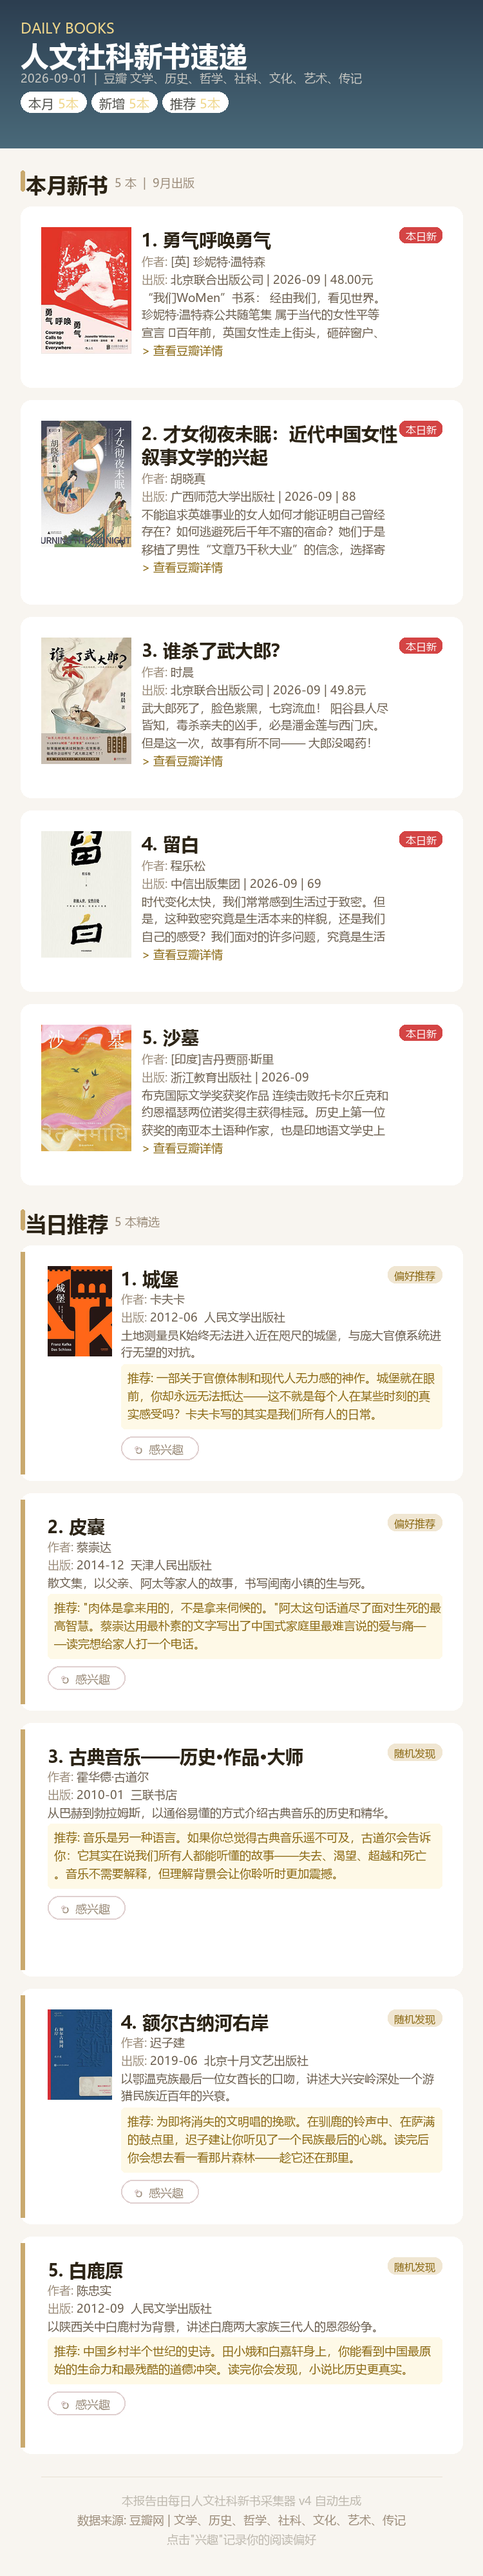
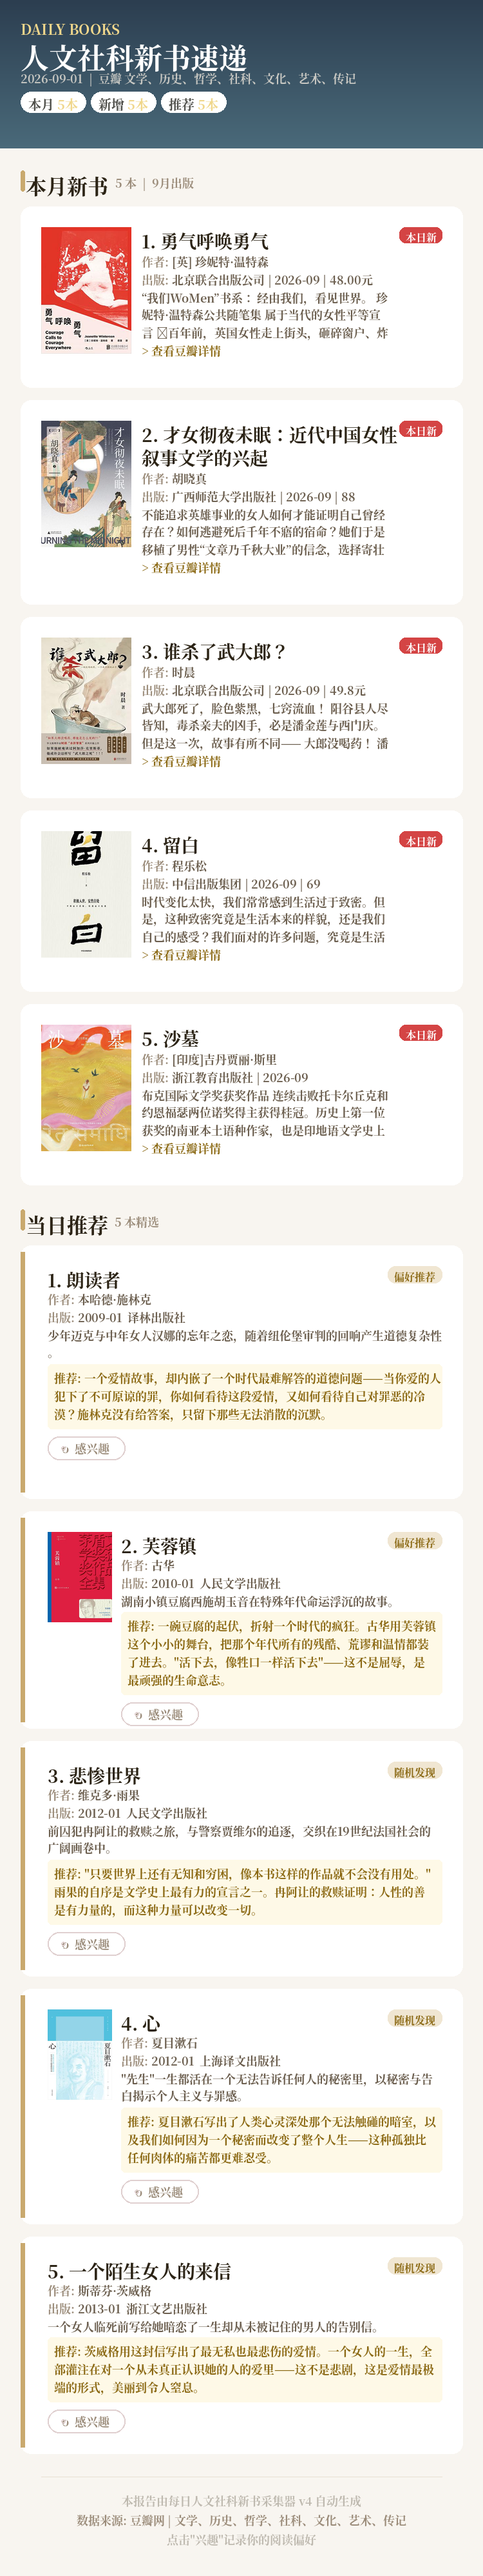
feat: 自动生成 2026-09-01 书单 [skip ci]

diff --git a/2026-09-01.html b/2026-09-01.html
@@ -441,71 +441,71 @@
 
 <div class="rec-card">
   <div class="rec-header">
-    <div class="rec-title">1. 城堡</div>
+    <div class="rec-title">1. 朗读者</div>
     <div class="rec-tag">偏好推荐</div>
   </div>
-  <div class="rec-author">✍ 卡夫卡</div>
-  <div class="rec-meta">📅 2012-06 · 🏠 人民文学出版社</div>
-  <div class='rec-desc'>土地测量员K始终无法进入近在咫尺的城堡，与庞大官僚系统进行无望的对抗。</div>
-  <div class="rec-reason"><span class="label">💡 推荐理由</span>一部关于官僚体制和现代人无力感的神作。城堡就在眼前，你却永远无法抵达——这不就是每个人在某些时刻的真实感受吗？卡夫卡写的其实是我们所有人的日常。</div>
-  <a class="detail-link" href="https://search.douban.com/book/subject_search?search_text=%E5%9F%8E%E5%A0%A1%20%E5%8D%A1%E5%A4%AB%E5%8D%A1" target="_blank" rel="noopener">📖 书籍详情</a>
-  <button class="heart-btn" data-id="pool-020">
+  <div class="rec-author">✍ 本哈德·施林克</div>
+  <div class="rec-meta">📅 2009-01 · 🏠 译林出版社</div>
+  <div class='rec-desc'>少年迈克与中年女人汉娜的忘年之恋，随着纽伦堡审判的回响产生道德复杂性。</div>
+  <div class="rec-reason"><span class="label">💡 推荐理由</span>一个爱情故事，却内嵌了一个时代最难解答的道德问题——当你爱的人犯下了不可原谅的罪，你如何看待这段爱情，又如何看待自己对罪恶的冷漠？施林克没有给答案，只留下那些无法消散的沉默。</div>
+  <a class="detail-link" href="https://search.douban.com/book/subject_search?search_text=%E6%9C%97%E8%AF%BB%E8%80%85%20%E6%9C%AC%E5%93%88%E5%BE%B7%C2%B7%E6%96%BD%E6%9E%97%E5%85%8B" target="_blank" rel="noopener">📖 书籍详情</a>
+  <button class="heart-btn" data-id="pool-181">
     <span class="heart">♡</span> 感兴趣
   </button>
 </div>
 <div class="rec-card">
   <div class="rec-header">
-    <div class="rec-title">2. 皮囊</div>
+    <div class="rec-title">2. 芙蓉镇</div>
     <div class="rec-tag">偏好推荐</div>
   </div>
-  <div class="rec-author">✍ 蔡崇达</div>
-  <div class="rec-meta">📅 2014-12 · 🏠 天津人民出版社</div>
-  <div class='rec-desc'>散文集，以父亲、阿太等家人的故事，书写闽南小镇的生与死。</div>
-  <div class="rec-reason"><span class="label">💡 推荐理由</span>&quot;肉体是拿来用的，不是拿来伺候的。&quot;阿太这句话道尽了面对生死的最高智慧。蔡崇达用最朴素的文字写出了中国式家庭里最难言说的爱与痛——读完想给家人打一个电话。</div>
-  <a class="detail-link" href="https://search.douban.com/book/subject_search?search_text=%E7%9A%AE%E5%9B%8A%20%E8%94%A1%E5%B4%87%E8%BE%BE" target="_blank" rel="noopener">📖 书籍详情</a>
-  <button class="heart-btn" data-id="pool-094">
+  <div class="rec-author">✍ 古华</div>
+  <div class="rec-meta">📅 2010-01 · 🏠 人民文学出版社</div>
+  <div class='rec-desc'>湖南小镇豆腐西施胡玉音在特殊年代命运浮沉的故事。</div>
+  <div class="rec-reason"><span class="label">💡 推荐理由</span>一碗豆腐的起伏，折射一个时代的疯狂。古华用芙蓉镇这个小小的舞台，把那个年代所有的残酷、荒谬和温情都装了进去。&quot;活下去，像牲口一样活下去&quot;——这不是屈辱，是最顽强的生命意志。</div>
+  <a class="detail-link" href="https://search.douban.com/book/subject_search?search_text=%E8%8A%99%E8%93%89%E9%95%87%20%E5%8F%A4%E5%8D%8E" target="_blank" rel="noopener">📖 书籍详情</a>
+  <button class="heart-btn" data-id="pool-135">
     <span class="heart">♡</span> 感兴趣
   </button>
 </div>
 <div class="rec-card">
   <div class="rec-header">
-    <div class="rec-title">3. 古典音乐——历史·作品·大师</div>
+    <div class="rec-title">3. 悲惨世界</div>
     <div class="rec-tag">随机发现</div>
   </div>
-  <div class="rec-author">✍ 霍华德·古道尔</div>
-  <div class="rec-meta">📅 2010-01 · 🏠 三联书店</div>
-  <div class='rec-desc'>从巴赫到勃拉姆斯，以通俗易懂的方式介绍古典音乐的历史和精华。</div>
-  <div class="rec-reason"><span class="label">💡 推荐理由</span>音乐是另一种语言。如果你总觉得古典音乐遥不可及，古道尔会告诉你：它其实在说我们所有人都能听懂的故事——失去、渴望、超越和死亡。音乐不需要解释，但理解背景会让你聆听时更加震撼。</div>
-  <a class="detail-link" href="https://search.douban.com/book/subject_search?search_text=%E5%8F%A4%E5%85%B8%E9%9F%B3%E4%B9%90%E2%80%94%E2%80%94%E5%8E%86%E5%8F%B2%C2%B7%E4%BD%9C%E5%93%81%C2%B7%E5%A4%A7%E5%B8%88%20%E9%9C%8D%E5%8D%8E%E5%BE%B7%C2%B7%E5%8F%A4%E9%81%93%E5%B0%94" target="_blank" rel="noopener">📖 书籍详情</a>
-  <button class="heart-btn" data-id="pool-096">
+  <div class="rec-author">✍ 维克多·雨果</div>
+  <div class="rec-meta">📅 2012-01 · 🏠 人民文学出版社</div>
+  <div class='rec-desc'>前囚犯冉阿让的救赎之旅，与警察贾维尔的追逐，交织在19世纪法国社会的广阔画卷中。</div>
+  <div class="rec-reason"><span class="label">💡 推荐理由</span>&quot;只要世界上还有无知和穷困，像本书这样的作品就不会没有用处。&quot;雨果的自序是文学史上最有力的宣言之一。冉阿让的救赎证明：人性的善是有力量的，而这种力量可以改变一切。</div>
+  <a class="detail-link" href="https://search.douban.com/book/subject_search?search_text=%E6%82%B2%E6%83%A8%E4%B8%96%E7%95%8C%20%E7%BB%B4%E5%85%8B%E5%A4%9A%C2%B7%E9%9B%A8%E6%9E%9C" target="_blank" rel="noopener">📖 书籍详情</a>
+  <button class="heart-btn" data-id="pool-114">
     <span class="heart">♡</span> 感兴趣
   </button>
 </div>
 <div class="rec-card">
   <div class="rec-header">
-    <div class="rec-title">4. 额尔古纳河右岸</div>
+    <div class="rec-title">4. 心</div>
     <div class="rec-tag">随机发现</div>
   </div>
-  <div class="rec-author">✍ 迟子建</div>
-  <div class="rec-meta">📅 2019-06 · 🏠 北京十月文艺出版社</div>
-  <div class='rec-desc'>以鄂温克族最后一位女酋长的口吻，讲述大兴安岭深处一个游猎民族近百年的兴衰。</div>
-  <div class="rec-reason"><span class="label">💡 推荐理由</span>为即将消失的文明唱的挽歌。在驯鹿的铃声中、在萨满的鼓点里，迟子建让你听见了一个民族最后的心跳。读完后你会想去看一看那片森林——趁它还在那里。</div>
-  <a class="detail-link" href="https://search.douban.com/book/subject_search?search_text=%E9%A2%9D%E5%B0%94%E5%8F%A4%E7%BA%B3%E6%B2%B3%E5%8F%B3%E5%B2%B8%20%E8%BF%9F%E5%AD%90%E5%BB%BA" target="_blank" rel="noopener">📖 书籍详情</a>
-  <button class="heart-btn" data-id="pool-044">
+  <div class="rec-author">✍ 夏目漱石</div>
+  <div class="rec-meta">📅 2012-01 · 🏠 上海译文出版社</div>
+  <div class='rec-desc'>&quot;先生&quot;一生都活在一个无法告诉任何人的秘密里，以秘密与告白揭示个人主义与罪感。</div>
+  <div class="rec-reason"><span class="label">💡 推荐理由</span>夏目漱石写出了人类心灵深处那个无法触碰的暗室，以及我们如何因为一个秘密而改变了整个人生——这种孤独比任何肉体的痛苦都更难忍受。</div>
+  <a class="detail-link" href="https://search.douban.com/book/subject_search?search_text=%E5%BF%83%20%E5%A4%8F%E7%9B%AE%E6%BC%B1%E7%9F%B3" target="_blank" rel="noopener">📖 书籍详情</a>
+  <button class="heart-btn" data-id="pool-151">
     <span class="heart">♡</span> 感兴趣
   </button>
 </div>
 <div class="rec-card">
   <div class="rec-header">
-    <div class="rec-title">5. 白鹿原</div>
+    <div class="rec-title">5. 一个陌生女人的来信</div>
     <div class="rec-tag">随机发现</div>
   </div>
-  <div class="rec-author">✍ 陈忠实</div>
-  <div class="rec-meta">📅 2012-09 · 🏠 人民文学出版社</div>
-  <div class='rec-desc'>以陕西关中白鹿村为背景，讲述白鹿两大家族三代人的恩怨纷争。</div>
-  <div class="rec-reason"><span class="label">💡 推荐理由</span>中国乡村半个世纪的史诗。田小娥和白嘉轩身上，你能看到中国最原始的生命力和最残酷的道德冲突。读完你会发现，小说比历史更真实。</div>
-  <a class="detail-link" href="https://search.douban.com/book/subject_search?search_text=%E7%99%BD%E9%B9%BF%E5%8E%9F%20%E9%99%88%E5%BF%A0%E5%AE%9E" target="_blank" rel="noopener">📖 书籍详情</a>
-  <button class="heart-btn" data-id="pool-032">
+  <div class="rec-author">✍ 斯蒂芬·茨威格</div>
+  <div class="rec-meta">📅 2013-01 · 🏠 浙江文艺出版社</div>
+  <div class='rec-desc'>一个女人临死前写给她暗恋了一生却从未被记住的男人的告别信。</div>
+  <div class="rec-reason"><span class="label">💡 推荐理由</span>茨威格用这封信写出了最无私也最悲伤的爱情。一个女人的一生，全部灌注在对一个从未真正认识她的人的爱里——这不是悲剧，这是爱情最极端的形式，美丽到令人窒息。</div>
+  <a class="detail-link" href="https://search.douban.com/book/subject_search?search_text=%E4%B8%80%E4%B8%AA%E9%99%8C%E7%94%9F%E5%A5%B3%E4%BA%BA%E7%9A%84%E6%9D%A5%E4%BF%A1%20%E6%96%AF%E8%92%82%E8%8A%AC%C2%B7%E8%8C%A8%E5%A8%81%E6%A0%BC" target="_blank" rel="noopener">📖 书籍详情</a>
+  <button class="heart-btn" data-id="pool-141">
     <span class="heart">♡</span> 感兴趣
   </button>
 </div>

diff --git a/index.html b/index.html
@@ -113,7 +113,7 @@
     
 <a class="day-card" href="2026-09-01.html">
   <div>
-    <div class="date">2026-09-01 星期二</div>
+    <div class="date">2026-09-01 星期二<span style="background:#D44444;color:#fff;font-size:11px;padding:1px 8px;border-radius:8px;margin-left:6px;">今天</span></div>
     <div class="info">点击查看当日新书与推荐</div>
   </div>
   <div class="arrow">→</div>
